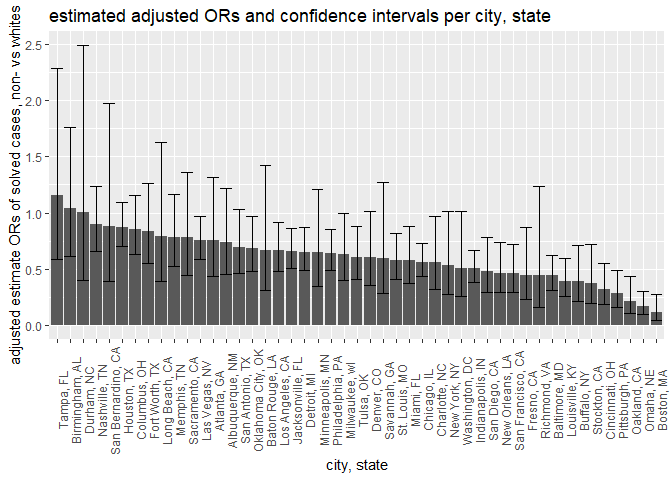
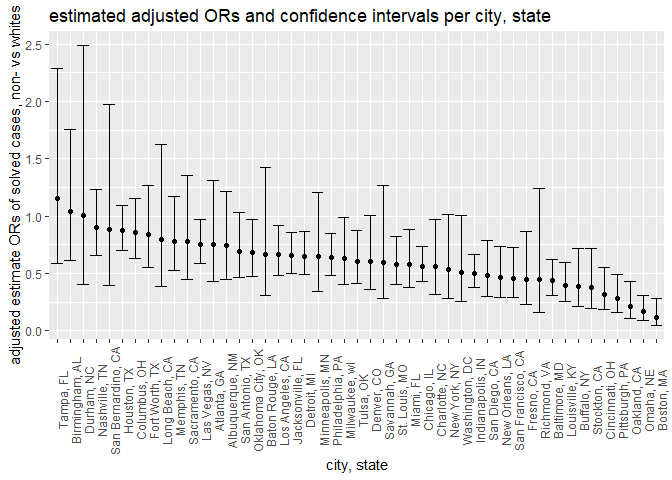
knitted

diff --git a/p8105_hw6_cac2225.md b/p8105_hw6_cac2225.md
@@ -20,14 +20,14 @@ First loading all necessary packages
 library(tidyverse)
 ```
 
-    ## -- Attaching packages --------------------------------------------------------------------------------------- tidyverse 1.2.1 --
+    ## -- Attaching packages --------------------------------------- tidyverse 1.2.1 --
 
     ## v ggplot2 3.0.0     v purrr   0.2.5
     ## v tibble  1.4.2     v dplyr   0.7.6
     ## v tidyr   0.8.1     v stringr 1.3.1
     ## v readr   1.1.1     v forcats 0.3.0
 
-    ## -- Conflicts ------------------------------------------------------------------------------------------ tidyverse_conflicts() --
+    ## -- Conflicts ------------------------------------------ tidyverse_conflicts() --
     ## x dplyr::filter() masks stats::filter()
     ## x dplyr::lag()    masks stats::lag()
 
@@ -145,10 +145,161 @@ Glm is applied to each city\_state and an OR with 95% confidence intervals is ca
 
 ``` r
 df_homicide %>% 
-  ggplot(aes(fct_reorder(city_state, desc(OR)), OR)) + geom_bar(stat = "identity") + geom_errorbar(aes(ymin = conf.low, ymax = conf.high)) + theme(axis.text.x = element_text(angle = 90)) + ggtitle("estimated adjusted ORs and confidence intervals per city, state") + xlab("city, state") + ylab("adjusted estimate ORs of solved cases, non- vs whites")
+  ggplot(aes(fct_reorder(city_state, desc(OR)), OR)) + geom_point() + geom_errorbar(aes(ymin = conf.low, ymax = conf.high)) + theme(axis.text.x = element_text(angle = 90)) + ggtitle("estimated adjusted ORs and confidence intervals per city, state") + xlab("city, state") + ylab("adjusted estimate ORs of solved cases, non- vs whites")
 ```
 
 ![](p8105_hw6_cac2225_files/figure-markdown_github/plot%20estimate%20ORs%20and%20CIs%20for%20each%20city-1.png)
 
 Problem 2
 ---------
+
+### Uploading the datafile, and dataset preparation/cleaning
+
+The csv file is imported using the read\_csv function and the dataset is cleaned.
+
+``` r
+birthweight = read_csv("./data/birthweight.csv") %>% 
+  janitor::clean_names()
+```
+
+    ## Parsed with column specification:
+    ## cols(
+    ##   .default = col_integer(),
+    ##   gaweeks = col_double(),
+    ##   ppbmi = col_double(),
+    ##   smoken = col_double()
+    ## )
+
+    ## See spec(...) for full column specifications.
+
+``` r
+birthweight
+```
+
+    ## # A tibble: 4,342 x 20
+    ##    babysex bhead blength   bwt delwt fincome frace gaweeks malform menarche
+    ##      <int> <int>   <int> <int> <int>   <int> <int>   <dbl>   <int>    <int>
+    ##  1       2    34      51  3629   177      35     1    39.9       0       13
+    ##  2       1    34      48  3062   156      65     2    25.9       0       14
+    ##  3       2    36      50  3345   148      85     1    39.9       0       12
+    ##  4       1    34      52  3062   157      55     1    40         0       14
+    ##  5       2    34      52  3374   156       5     1    41.6       0       13
+    ##  6       1    33      52  3374   129      55     1    40.7       0       12
+    ##  7       2    33      46  2523   126      96     2    40.3       0       14
+    ##  8       2    33      49  2778   140       5     1    37.4       0       12
+    ##  9       1    36      52  3515   146      85     1    40.3       0       11
+    ## 10       1    33      50  3459   169      75     2    40.7       0       12
+    ## # ... with 4,332 more rows, and 10 more variables: mheight <int>,
+    ## #   momage <int>, mrace <int>, parity <int>, pnumlbw <int>, pnumsga <int>,
+    ## #   ppbmi <dbl>, ppwt <int>, smoken <dbl>, wtgain <int>
+
+According to the output, the variables are all integers. Looking at the data dictionary, variables that should be converted into factors should be baby sex, father's race, presence of malformations and mother's race.
+
+``` r
+birthweight = birthweight %>% 
+  mutate(babysex = recode(babysex, "1" = "male", "2" = "female"),
+         frace = recode(frace, "1" = "white", "2" = "black", "3" = "asian", "4" = "puerto rican", "8" = "other", "9" = "unknown"),
+         mrace = recode(mrace, "1" = "white", "2" = "black", "3" = "asian", "4" = "puerto rican", "8" = "other"),
+         malform = recode(malform, "0" = "absent", "1" = "present"))
+
+
+birthweight = birthweight %>% 
+  mutate(babysex = factor(babysex, levels = c("female", "male"))) %>% 
+           mutate(malform = factor(malform, levels = c("present", "absent")))
+         
+birthweight = birthweight %>% 
+         mutate(frace = factor(frace))
+
+birthweight = birthweight %>% 
+         mutate(mrace = factor(mrace))
+
+is.factor(birthweight$babysex)
+```
+
+    ## [1] TRUE
+
+``` r
+is.factor(birthweight$malform)
+```
+
+    ## [1] TRUE
+
+``` r
+is.factor(birthweight$frace)
+```
+
+    ## [1] TRUE
+
+``` r
+is.factor(birthweight$mrace)
+```
+
+    ## [1] TRUE
+
+Checking for missing data within the birthweight dataset.
+
+``` r
+skimr::skim(birthweight)
+```
+
+    ## Skim summary statistics
+    ##  n obs: 4342 
+    ##  n variables: 20 
+    ## 
+    ## -- Variable type:factor --------------------------------------------------------
+    ##  variable missing complete    n n_unique
+    ##   babysex       0     4342 4342        2
+    ##     frace       0     4342 4342        5
+    ##   malform       0     4342 4342        2
+    ##     mrace       0     4342 4342        4
+    ##                               top_counts ordered
+    ##              mal: 2230, fem: 2112, NA: 0   FALSE
+    ##  whi: 2123, bla: 1911, pue: 248, asi: 46   FALSE
+    ##                abs: 4327, pre: 15, NA: 0   FALSE
+    ##  whi: 2147, bla: 1909, pue: 243, asi: 43   FALSE
+    ## 
+    ## -- Variable type:integer -------------------------------------------------------
+    ##  variable missing complete    n      mean     sd  p0  p25    p50  p75 p100
+    ##     bhead       0     4342 4342   33.65     1.62  21   33   34     35   41
+    ##   blength       0     4342 4342   49.75     2.72  20   48   50     51   63
+    ##       bwt       0     4342 4342 3114.4    512.15 595 2807 3132.5 3459 4791
+    ##     delwt       0     4342 4342  145.57    22.21  86  131  143    157  334
+    ##   fincome       0     4342 4342   44.11    25.98   0   25   35     65   96
+    ##  menarche       0     4342 4342   12.51     1.48   0   12   12     13   19
+    ##   mheight       0     4342 4342   63.49     2.66  48   62   63     65   77
+    ##    momage       0     4342 4342   20.3      3.88  12   18   20     22   44
+    ##    parity       0     4342 4342    0.0023   0.1    0    0    0      0    6
+    ##   pnumlbw       0     4342 4342    0        0      0    0    0      0    0
+    ##   pnumsga       0     4342 4342    0        0      0    0    0      0    0
+    ##      ppwt       0     4342 4342  123.49    20.16  70  110  120    134  287
+    ##    wtgain       0     4342 4342   22.08    10.94 -46   15   22     28   89
+    ##      hist
+    ##  <U+2581><U+2581><U+2581><U+2581><U+2585><U+2587><U+2581><U+2581>
+    ##  <U+2581><U+2581><U+2581><U+2581><U+2581><U+2587><U+2581><U+2581>
+    ##  <U+2581><U+2581><U+2581><U+2583><U+2587><U+2587><U+2582><U+2581>
+    ##  <U+2581><U+2587><U+2585><U+2581><U+2581><U+2581><U+2581><U+2581>
+    ##  <U+2581><U+2582><U+2587><U+2582><U+2582><U+2582><U+2581><U+2583>
+    ##  <U+2581><U+2581><U+2581><U+2581><U+2582><U+2587><U+2581><U+2581>
+    ##  <U+2581><U+2581><U+2581><U+2585><U+2587><U+2582><U+2581><U+2581>
+    ##  <U+2582><U+2587><U+2585><U+2582><U+2581><U+2581><U+2581><U+2581>
+    ##  <U+2587><U+2581><U+2581><U+2581><U+2581><U+2581><U+2581><U+2581>
+    ##  <U+2581><U+2581><U+2581><U+2587><U+2581><U+2581><U+2581><U+2581>
+    ##  <U+2581><U+2581><U+2581><U+2587><U+2581><U+2581><U+2581><U+2581>
+    ##  <U+2581><U+2587><U+2586><U+2581><U+2581><U+2581><U+2581><U+2581>
+    ##  <U+2581><U+2581><U+2581><U+2587><U+2587><U+2581><U+2581><U+2581>
+    ## 
+    ## -- Variable type:numeric -------------------------------------------------------
+    ##  variable missing complete    n  mean   sd    p0   p25   p50   p75 p100
+    ##   gaweeks       0     4342 4342 39.43 3.15 17.7  38.3  39.9  41.1  51.3
+    ##     ppbmi       0     4342 4342 21.57 3.18 13.07 19.53 21.03 22.91 46.1
+    ##    smoken       0     4342 4342  4.15 7.41  0     0     0     5    60  
+    ##      hist
+    ##  <U+2581><U+2581><U+2581><U+2581><U+2583><U+2587><U+2581><U+2581>
+    ##  <U+2581><U+2587><U+2585><U+2581><U+2581><U+2581><U+2581><U+2581>
+    ##  <U+2587><U+2581><U+2581><U+2581><U+2581><U+2581><U+2581><U+2581>
+
+Looking at the missing column for each variable, there are no missing values.
+
+### Proposed model
+
+### Comparison of model
